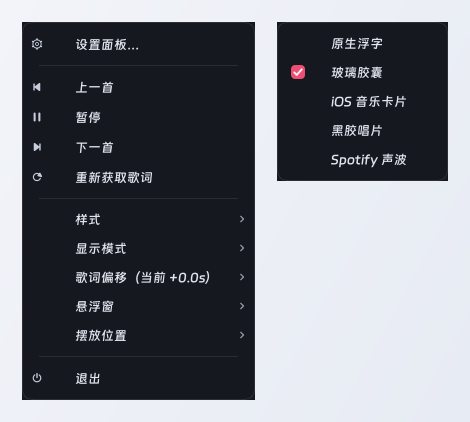
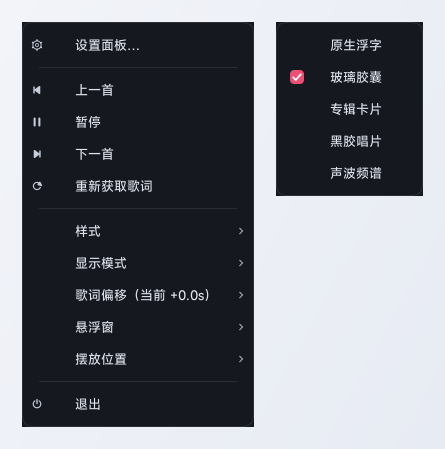
官网/隐私切 v2.0.8 与 UI 截图更新

diff --git a/index.html b/index.html
@@ -21,10 +21,10 @@
 <meta name="twitter:title" content="桌面歌词|Desktop-sing · 让歌词浮在桌面之上">
 <meta name="twitter:description" content="自动跟随播放 · 卡拉OK逐字歌词 · 5 种样式 · 4 种氛围屏保。微软商店安装或便携包解压即用，Windows 10/11。">
 <meta name="twitter:image" content="https://music.202271.xyz/assets/hero.png">
-<link rel="icon" href="assets/favicon-32.png?v=394512fa34" sizes="32x32">
-<link rel="icon" href="assets/icon-256.png?v=394512fa34" sizes="256x256">
-<link rel="apple-touch-icon" href="assets/apple-touch-icon.png?v=394512fa34">
-<link rel="stylesheet" href="assets/style.css?v=394512fa34">
+<link rel="icon" href="assets/favicon-32.png?v=a84f6c4a6b" sizes="32x32">
+<link rel="icon" href="assets/icon-256.png?v=a84f6c4a6b" sizes="256x256">
+<link rel="apple-touch-icon" href="assets/apple-touch-icon.png?v=a84f6c4a6b">
+<link rel="stylesheet" href="assets/style.css?v=a84f6c4a6b">
 <script>
 /* 渐进增强开关（同步执行，早于首次绘制，所以不会闪一下再隐藏）：
    style.css 里 .reveal 默认是可见的，只有 <html> 带上 js 类才启用"先隐藏、滚动入场"。
@@ -51,7 +51,7 @@
 <header class="nav">
   <div class="wrap">
     <a class="brand" href="#top">
-      <img src="assets/icon-180.png?v=394512fa34" alt="">
+      <img src="assets/icon-180.png?v=a84f6c4a6b" alt="">
       <span>桌面歌词|Desktop-sing</span>
     </a>
     <nav class="nav-links">
@@ -85,7 +85,7 @@
 
       <div class="hero-shot">
         <div class="shot">
-          <img src="assets/hero.png?v=394512fa34" alt="玻璃胶囊样式的桌面歌词" loading="eager" decoding="async">
+          <img src="assets/hero.png?v=a84f6c4a6b" alt="玻璃胶囊样式的桌面歌词" loading="eager" decoding="async">
         </div>
       </div>
     </div>
@@ -158,23 +158,23 @@
 
     <div class="gallery">
       <figure class="reveal" style="--d:0ms">
-        <div class="shot"><img src="assets/style-native.png?v=394512fa34" alt="原生浮字样式" loading="lazy" decoding="async"></div>
+        <div class="shot"><img src="assets/style-native.png?v=a84f6c4a6b" alt="原生浮字样式" loading="lazy" decoding="async"></div>
         <figcaption><b>原生浮字</b> · 无卡片底，直接压在壁纸上</figcaption>
       </figure>
       <figure class="reveal" style="--d:70ms">
-        <div class="shot"><img src="assets/style-glass.png?v=394512fa34" alt="玻璃胶囊样式" loading="lazy" decoding="async"></div>
+        <div class="shot"><img src="assets/style-glass.png?v=a84f6c4a6b" alt="玻璃胶囊样式" loading="lazy" decoding="async"></div>
         <figcaption><b>玻璃胶囊</b> · 半透明毛玻璃，透出壁纸</figcaption>
       </figure>
       <figure class="reveal" style="--d:140ms">
-        <div class="shot"><img src="assets/style-ios.png?v=394512fa34" alt="专辑卡片样式" loading="lazy" decoding="async"></div>
+        <div class="shot"><img src="assets/style-ios.png?v=a84f6c4a6b" alt="专辑卡片样式" loading="lazy" decoding="async"></div>
         <figcaption><b>专辑卡片</b> · 圆角大卡片，最耐看的一套</figcaption>
       </figure>
       <figure class="reveal" style="--d:210ms">
-        <div class="shot"><img src="assets/style-vinyl.png?v=394512fa34" alt="黑胶唱片样式" loading="lazy" decoding="async"></div>
+        <div class="shot"><img src="assets/style-vinyl.png?v=a84f6c4a6b" alt="黑胶唱片样式" loading="lazy" decoding="async"></div>
         <figcaption><b>黑胶唱片</b> · 唱片随播放旋转，中心贴专辑封面</figcaption>
       </figure>
       <figure class="reveal" style="--d:280ms">
-        <div class="shot"><img src="assets/style-spotify.png?v=394512fa34" alt="声波频谱样式" loading="lazy" decoding="async"></div>
+        <div class="shot"><img src="assets/style-spotify.png?v=a84f6c4a6b" alt="声波频谱样式" loading="lazy" decoding="async"></div>
         <figcaption><b>声波频谱</b> · 极简排版 + 声波律动</figcaption>
       </figure>
     </div>
@@ -195,7 +195,7 @@
           </ul>
         </div>
         <div class="reveal" style="--d:120ms">
-          <div class="shot"><img src="assets/anim-fan.png?v=394512fa34" alt="扇形展开逐字动画" loading="lazy" decoding="async"></div>
+          <div class="shot"><img src="assets/anim-fan.png?v=a84f6c4a6b" alt="扇形展开逐字动画" loading="lazy" decoding="async"></div>
         </div>
       </div>
     </div>
@@ -222,13 +222,13 @@
           </ul>
         </div>
         <div class="reveal" style="--d:120ms">
-          <div class="shot"><img src="assets/panel.png?v=394512fa34" alt="设置面板" loading="lazy" decoding="async"></div>
+          <div class="shot"><img src="assets/panel.png?v=a84f6c4a6b" alt="设置面板" loading="lazy" decoding="async"></div>
         </div>
       </div>
 
       <div class="split" style="margin-top:clamp(48px,7vw,96px)">
         <div class="reveal">
-          <div class="shot"><img src="assets/menu.png?v=394512fa34" alt="右键菜单" loading="lazy" decoding="async"></div>
+          <div class="shot"><img src="assets/menu.png?v=a84f6c4a6b" alt="右键菜单" loading="lazy" decoding="async"></div>
         </div>
         <div class="reveal" style="--d:120ms">
           <p class="eyebrow">随手可用</p>
@@ -261,19 +261,19 @@
 
       <div class="grid2">
         <figure class="reveal" style="--d:0ms">
-          <div class="shot"><img src="assets/saver-particle.png?v=394512fa34" alt="3D 粒子屏保" loading="lazy" decoding="async"></div>
+          <div class="shot"><img src="assets/saver-particle.png?v=a84f6c4a6b" alt="3D 粒子屏保" loading="lazy" decoding="async"></div>
           <figcaption><b>3D 粒子</b> · 近两百颗封面主色粒子组成慢速星云</figcaption>
         </figure>
         <figure class="reveal" style="--d:80ms">
-          <div class="shot"><img src="assets/saver-minimal.png?v=394512fa34" alt="极简时钟屏保" loading="lazy" decoding="async"></div>
+          <div class="shot"><img src="assets/saver-minimal.png?v=a84f6c4a6b" alt="极简时钟屏保" loading="lazy" decoding="async"></div>
           <figcaption><b>极简</b> · 纯黑 + 大时钟，最安静，适合写作业</figcaption>
         </figure>
         <figure class="reveal" style="--d:160ms">
-          <div class="shot"><img src="assets/saver-bars.png?v=394512fa34" alt="音浪屏保" loading="lazy" decoding="async"></div>
+          <div class="shot"><img src="assets/saver-bars.png?v=a84f6c4a6b" alt="音浪屏保" loading="lazy" decoding="async"></div>
           <figcaption><b>音浪</b> · 底部对称音条随多频正弦缓慢起伏</figcaption>
         </figure>
         <figure class="reveal" style="--d:240ms">
-          <div class="shot"><img src="assets/saver-orbits.png?v=394512fa34" alt="星轨屏保" loading="lazy" decoding="async"></div>
+          <div class="shot"><img src="assets/saver-orbits.png?v=a84f6c4a6b" alt="星轨屏保" loading="lazy" decoding="async"></div>
           <figcaption><b>星轨</b> · 多层同心轨道，内外反向缓慢公转</figcaption>
         </figure>
       </div>
@@ -345,7 +345,7 @@
           <span class="go">前往 Microsoft Store</span>
         </a>
 
-        <a class="dl reveal" style="--d:80ms" href="https://github.com/xiaohao8/Desktop-sing/releases/download/v2.0.4/Desktop-sing-v2.0.4-setup.exe" data-dl="github-setup" target="_blank" rel="noopener">
+        <a class="dl reveal" style="--d:80ms" href="https://github.com/xiaohao8/Desktop-sing/releases/download/v2.0.8/Desktop-sing-v2.0.8-setup.exe" data-dl="github-setup" target="_blank" rel="noopener">
           <span class="k">推荐 · 安装版</span>
           <span class="v">
             <svg viewBox="0 0 24 24" fill="none" stroke="currentColor" stroke-width="1.9"
@@ -353,13 +353,13 @@
               <path d="M7 17a5 5 0 0 1-.6-9.96A6.5 6.5 0 0 1 19 9.5a3.75 3.75 0 0 1-.5 7.5H7Z"/>
               <path d="M12 12v9m0 0 3.2-3.2M12 21l-3.2-3.2"/>
             </svg>
-            安装版 v2.0.4
+            安装版 v2.0.8
           </span>
           <span class="d">带安装向导，自动建快捷方式。GitHub 直链下载，无需登录。</span>
           <span class="go">前往下载</span>
         </a>
 
-        <a class="dl reveal" style="--d:160ms" href="https://github.com/xiaohao8/Desktop-sing/releases/download/v2.0.4/Desktop-sing-v2.0.4-portable.zip" data-dl="github-portable" target="_blank" rel="noopener">
+        <a class="dl reveal" style="--d:160ms" href="https://github.com/xiaohao8/Desktop-sing/releases/download/v2.0.8/Desktop-sing-v2.0.8-portable.zip" data-dl="github-portable" target="_blank" rel="noopener">
           <span class="k">解压即用</span>
           <span class="v">
             <svg viewBox="0 0 24 24" fill="none" stroke="currentColor" stroke-width="1.9"
@@ -367,7 +367,7 @@
               <path d="M7 17a5 5 0 0 1-.6-9.96A6.5 6.5 0 0 1 19 9.5a3.75 3.75 0 0 1-.5 7.5H7Z"/>
               <path d="M12 12v9m0 0 3.2-3.2M12 21l-3.2-3.2"/>
             </svg>
-            免安装版 v2.0.4
+            免安装版 v2.0.8
           </span>
           <span class="d">不用安装。必须完整解压整个文件夹，再双击其中的 Desktop-sing.exe；适合放 U 盘。</span>
           <span class="go">前往下载</span>
@@ -387,10 +387,10 @@
       </div>
 
       <div class="dl-meta reveal" style="--d:140ms">
-        <span>下载版 v2.0.4</span>
+        <span>下载版 v2.0.8</span>
         <span>Windows 10 / 11</span>
         <span>安装版 25 MB · 免安装版 33 MB</span>
-        <span>本地运行，不上传任何数据</span>
+          <span>本地运行，听歌统计不上传、可关闭或清空</span>
         <span>商店版由 Microsoft Store 签名分发；GitHub 版暂无签名</span>
       </div>
     </div>
@@ -462,7 +462,7 @@
   <div class="wrap">
     <div class="row">
       <a class="brand" href="#top" style="color:var(--d-text)">
-        <img src="assets/icon-180.png?v=394512fa34" alt="">
+        <img src="assets/icon-180.png?v=a84f6c4a6b" alt="">
         <span>桌面歌词|Desktop-sing</span>
       </a>
       <a href="#download">下载</a>
@@ -479,6 +479,6 @@
   </div>
 </footer>
 
-<script src="assets/main.js?v=394512fa34" defer></script>
+<script src="assets/main.js?v=a84f6c4a6b" defer></script>
 </body>
 </html>

diff --git a/privacy.en.html b/privacy.en.html
@@ -9,9 +9,9 @@
 <meta property="og:title" content="Privacy Policy · 桌面歌词|Desktop-sing">
 <meta property="og:description" content="Runs locally. No account, no ads, no tracking. Network requests are limited to fetching lyrics and artwork on demand.">
 <meta property="og:type" content="website">
-<link rel="icon" href="assets/favicon-32.png?v=394512fa34" sizes="32x32">
-<link rel="icon" href="assets/icon-256.png?v=394512fa34" sizes="256x256">
-<link rel="stylesheet" href="assets/style.css?v=394512fa34">
+<link rel="icon" href="assets/favicon-32.png?v=a84f6c4a6b" sizes="32x32">
+<link rel="icon" href="assets/icon-256.png?v=a84f6c4a6b" sizes="256x256">
+<link rel="stylesheet" href="assets/style.css?v=a84f6c4a6b">
 <style>
 /* 隐私政策页专用排版（不动共享的 style.css） */
 .policy { max-width: 820px; }
@@ -39,7 +39,7 @@
 <header class="nav">
   <div class="wrap">
     <a class="brand" href="index.html">
-      <img src="assets/icon-180.png?v=394512fa34" alt="">
+      <img src="assets/icon-180.png?v=a84f6c4a6b" alt="">
       <span>桌面歌词|Desktop-sing</span>
     </a>
     <nav class="nav-links">
@@ -62,7 +62,7 @@
         Desktop-sing is a desktop lyric overlay that runs locally. There is no account system,
         no advertising and no analytics. We do not collect any personally identifiable information.
       </p>
-      <p class="meta-line">Effective date: 18 September 2026 · Applies to Desktop-sing v1.0.0 and later</p>
+      <p class="meta-line">Effective date: 24 November 2026 · Applies to Desktop-sing v2.0.8 and later</p>
     </div>
   </section>
 
@@ -79,11 +79,16 @@
           <tr><td><code>config.json</code></td><td>Your preferences</td><td>Style, font size, hotkeys, toggles</td></tr>
           <tr><td><code>cache\</code></td><td>Lyric cache</td><td>Caches fetched lyrics per song to avoid repeat requests</td></tr>
           <tr><td><code>fonts\</code></td><td>Downloaded fonts</td><td>Downloaded from the built-in font library; all free for commercial use</td></tr>
+          <tr><td><code>listening.json</code></td><td>On-device listening statistics</td><td>Track title, artist, date, hour, played seconds, play count and last-played time only; no album, player source, file paths, account, device ID or IP address</td></tr>
           <tr><td><code>t2s.tsv</code></td><td>Traditional→Simplified mapping</td><td>Optional user-supplied file</td></tr>
           <tr><td><code>desktop-lyrics.log</code></td><td>Runtime log</td><td>For troubleshooting; records only the program's own behaviour</td></tr>
         </table>
         <p>To delete it: close the program and remove that folder. When the Microsoft Store version is
           uninstalled, the system clears the package's data along with it.</p>
+        <p><b>Listening statistics</b> are on by default and count real playback seconds on this PC
+          only. Sessions under 20 seconds are ignored, at most 365 days / 5,000 aggregated rows are
+          retained, and nothing is uploaded. You can disable the feature in Settings or clear it at
+          any time from the Listening report page or the Settings panel.</p>
       </section>
 
       <section id="local-read">
@@ -128,20 +133,15 @@
             <td>The font distribution channel built into the program</td>
             <td>Downloads only the font file you selected</td>
           </tr>
-          <tr>
-            <td>Update check<br>(non-Store builds only)</td>
-            <td>The version manifest endpoints on GitHub / Gitee / jsDelivr</td>
-            <td>Compares version numbers only; sends no local data</td>
-          </tr>
         </table>
-        <p>The Microsoft Store version has no update-check behaviour — updates are always delivered
-          by the Store.</p>
+        <p>The app has no update-check behaviour and does not request a version manifest in the
+          background. The Microsoft Store version is updated by the Store.</p>
 
         <p><b>About request headers (disclosed in full)</b>: some music platforms' public endpoints
           only return results for common client types, so when requesting those endpoints the program
           sends a generic browser-type identifier along with a compatibility field marked
-          "PC client, client version 2.9.7". For LRCLIB and the update manifest endpoints the program
-          identifies itself by its own name, <code>Desktop-sing/&lt;version&gt;</code> (e.g.
+          "PC client, client version 2.9.7". For the LRCLIB endpoint the program identifies itself
+          by its own name, <code>Desktop-sing/&lt;version&gt;</code> (e.g.
           Desktop-sing/2.0). These identifiers exist
           only so the endpoints return lyric data normally. They
           <b>do not and cannot contain any of your personal information</b>, are not linked to your
@@ -166,8 +166,8 @@
       <section id="third-party">
         <h3>5. Third-party services</h3>
         <p>Lyrics and artwork come from the public endpoints of the music platforms named above, and
-          fonts and update files come from distribution channels such as GitHub, Gitee, jsDelivr and
-          Lanzou Cloud. Those services are controlled by their own operators and may have their own
+          font files come from distribution channels such as GitHub and jsDelivr. Those services
+          are controlled by their own operators and may have their own
           privacy policies. The only interaction between this program and them is a one-off functional
           request; no account or device information of yours is ever provided to them.</p>
       </section>

diff --git a/privacy.html b/privacy.html
@@ -9,9 +9,9 @@
 <meta property="og:title" content="隐私政策 · 桌面歌词|Desktop-sing">
 <meta property="og:description" content="本地运行，无账户、无广告、无追踪；仅按需请求歌词与封面。">
 <meta property="og:type" content="website">
-<link rel="icon" href="assets/favicon-32.png?v=394512fa34" sizes="32x32">
-<link rel="icon" href="assets/icon-256.png?v=394512fa34" sizes="256x256">
-<link rel="stylesheet" href="assets/style.css?v=394512fa34">
+<link rel="icon" href="assets/favicon-32.png?v=a84f6c4a6b" sizes="32x32">
+<link rel="icon" href="assets/icon-256.png?v=a84f6c4a6b" sizes="256x256">
+<link rel="stylesheet" href="assets/style.css?v=a84f6c4a6b">
 <style>
 /* 隐私政策页专用排版（不动共享的 style.css） */
 .policy { max-width: 820px; }
@@ -39,7 +39,7 @@
 <header class="nav">
   <div class="wrap">
     <a class="brand" href="index.html">
-      <img src="assets/icon-180.png?v=394512fa34" alt="">
+      <img src="assets/icon-180.png?v=a84f6c4a6b" alt="">
       <span>桌面歌词|Desktop-sing</span>
     </a>
     <nav class="nav-links">
@@ -62,7 +62,7 @@
         桌面歌词（Desktop-sing）是一款本地运行的桌面歌词工具。我们没有账户系统、
         没有广告、没有统计埋点，也不收集能识别你身份的个人信息。
       </p>
-      <p class="meta-line">生效日期：2026 年 9 月 18 日 · 适用于桌面歌词 v1.0.0 及更高版本</p>
+      <p class="meta-line">生效日期：2026 年 11 月 24 日 · 适用于桌面歌词 v2.0.8 及更高版本</p>
     </div>
   </section>
 
@@ -78,11 +78,15 @@
           <tr><td><code>config.json</code></td><td>个人偏好设置</td><td>样式、字号、快捷键、开关等</td></tr>
           <tr><td><code>cache\</code></td><td>歌词缓存</td><td>按歌曲缓存已获取的歌词，避免重复请求</td></tr>
           <tr><td><code>fonts\</code></td><td>下载的字体文件</td><td>从程序内置的字体库下载，免费商用字体</td></tr>
+          <tr><td><code>listening.json</code></td><td>本机听歌统计</td><td>仅含歌名、歌手、日期、小时、播放秒数、播放次数、最近播放时间；不含专辑、播放器来源、文件路径、账号、设备 ID 或 IP</td></tr>
           <tr><td><code>t2s.tsv</code></td><td>繁简转换映射</td><td>可选的用户自定义文件</td></tr>
           <tr><td><code>desktop-lyrics.log</code></td><td>运行日志</td><td>排障用，只记录程序自身行为</td></tr>
         </table>
         <p>删除方式：关闭程序后直接删除该目录即可。Microsoft Store 版本卸载应用时，
           系统会一并清除包内数据。</p>
+        <p><b>听歌统计</b>默认开启，只在本机累计真实播放秒数；单次不足 20 秒不记录，
+          最多保留 365 天 / 5000 条聚合记录，不上传。可在设置中关闭，也可在「听歌报告」
+          页或设置面板随时一键清空。</p>
       </section>
 
       <section id="local-read">
@@ -122,18 +126,14 @@
             <td>程序内置的字体发布渠道</td>
             <td>仅下载所点的字体文件</td>
           </tr>
-          <tr>
-            <td>检查更新<br>（仅非商店版）</td>
-            <td>GitHub / Gitee / jsDelivr 的版本清单接口</td>
-            <td>仅比对版本号，不发送任何本地数据</td>
-          </tr>
         </table>
-        <p>Microsoft Store 版本没有「检查更新」行为——更新一律由商店分发。</p>
+        <p>程序内没有「检查更新」行为，也不会在后台请求版本清单。
+          Microsoft Store 版本由商店分发更新。</p>
 
         <p><b>关于请求头（如实说明）</b>：部分音乐平台的公开接口只对常见客户端类型
           返回结果，因此程序在请求这些接口时会带上通用的浏览器类型标识，
           以及标注为「PC 端、客户端版本 2.9.7」的兼容性字段；
-          对 LRCLIB 与更新清单接口，程序使用自己的名称标识
+          对 LRCLIB 接口，程序使用自己的名称标识
           <code>Desktop-sing/&lt;版本号&gt;</code>（如 Desktop-sing/2.0）。这些标识仅用于让接口正常返回歌词数据，
           <b>不包含也无法包含你的任何个人信息</b>，它们不与你的设备或账号绑定，
           也不用于任何形式的身份识别或追踪。</p>
@@ -155,8 +155,8 @@
 
       <section id="third-party">
         <h3>5. 第三方服务</h3>
-        <p>歌词与封面来自上述音乐平台的公开接口，字体与更新文件来自
-          GitHub / Gitee / jsDelivr / 蓝奏云等发布渠道。这些服务由各自的运营方控制，
+        <p>歌词与封面来自上述音乐平台的公开接口，字体文件来自
+          GitHub / jsDelivr 等发布渠道。这些服务由各自的运营方控制，
           可能有自己的隐私政策；本程序与它们之间只存在一次性的功能请求，
           不向它们提供你的任何账户或设备信息。</p>
       </section>
